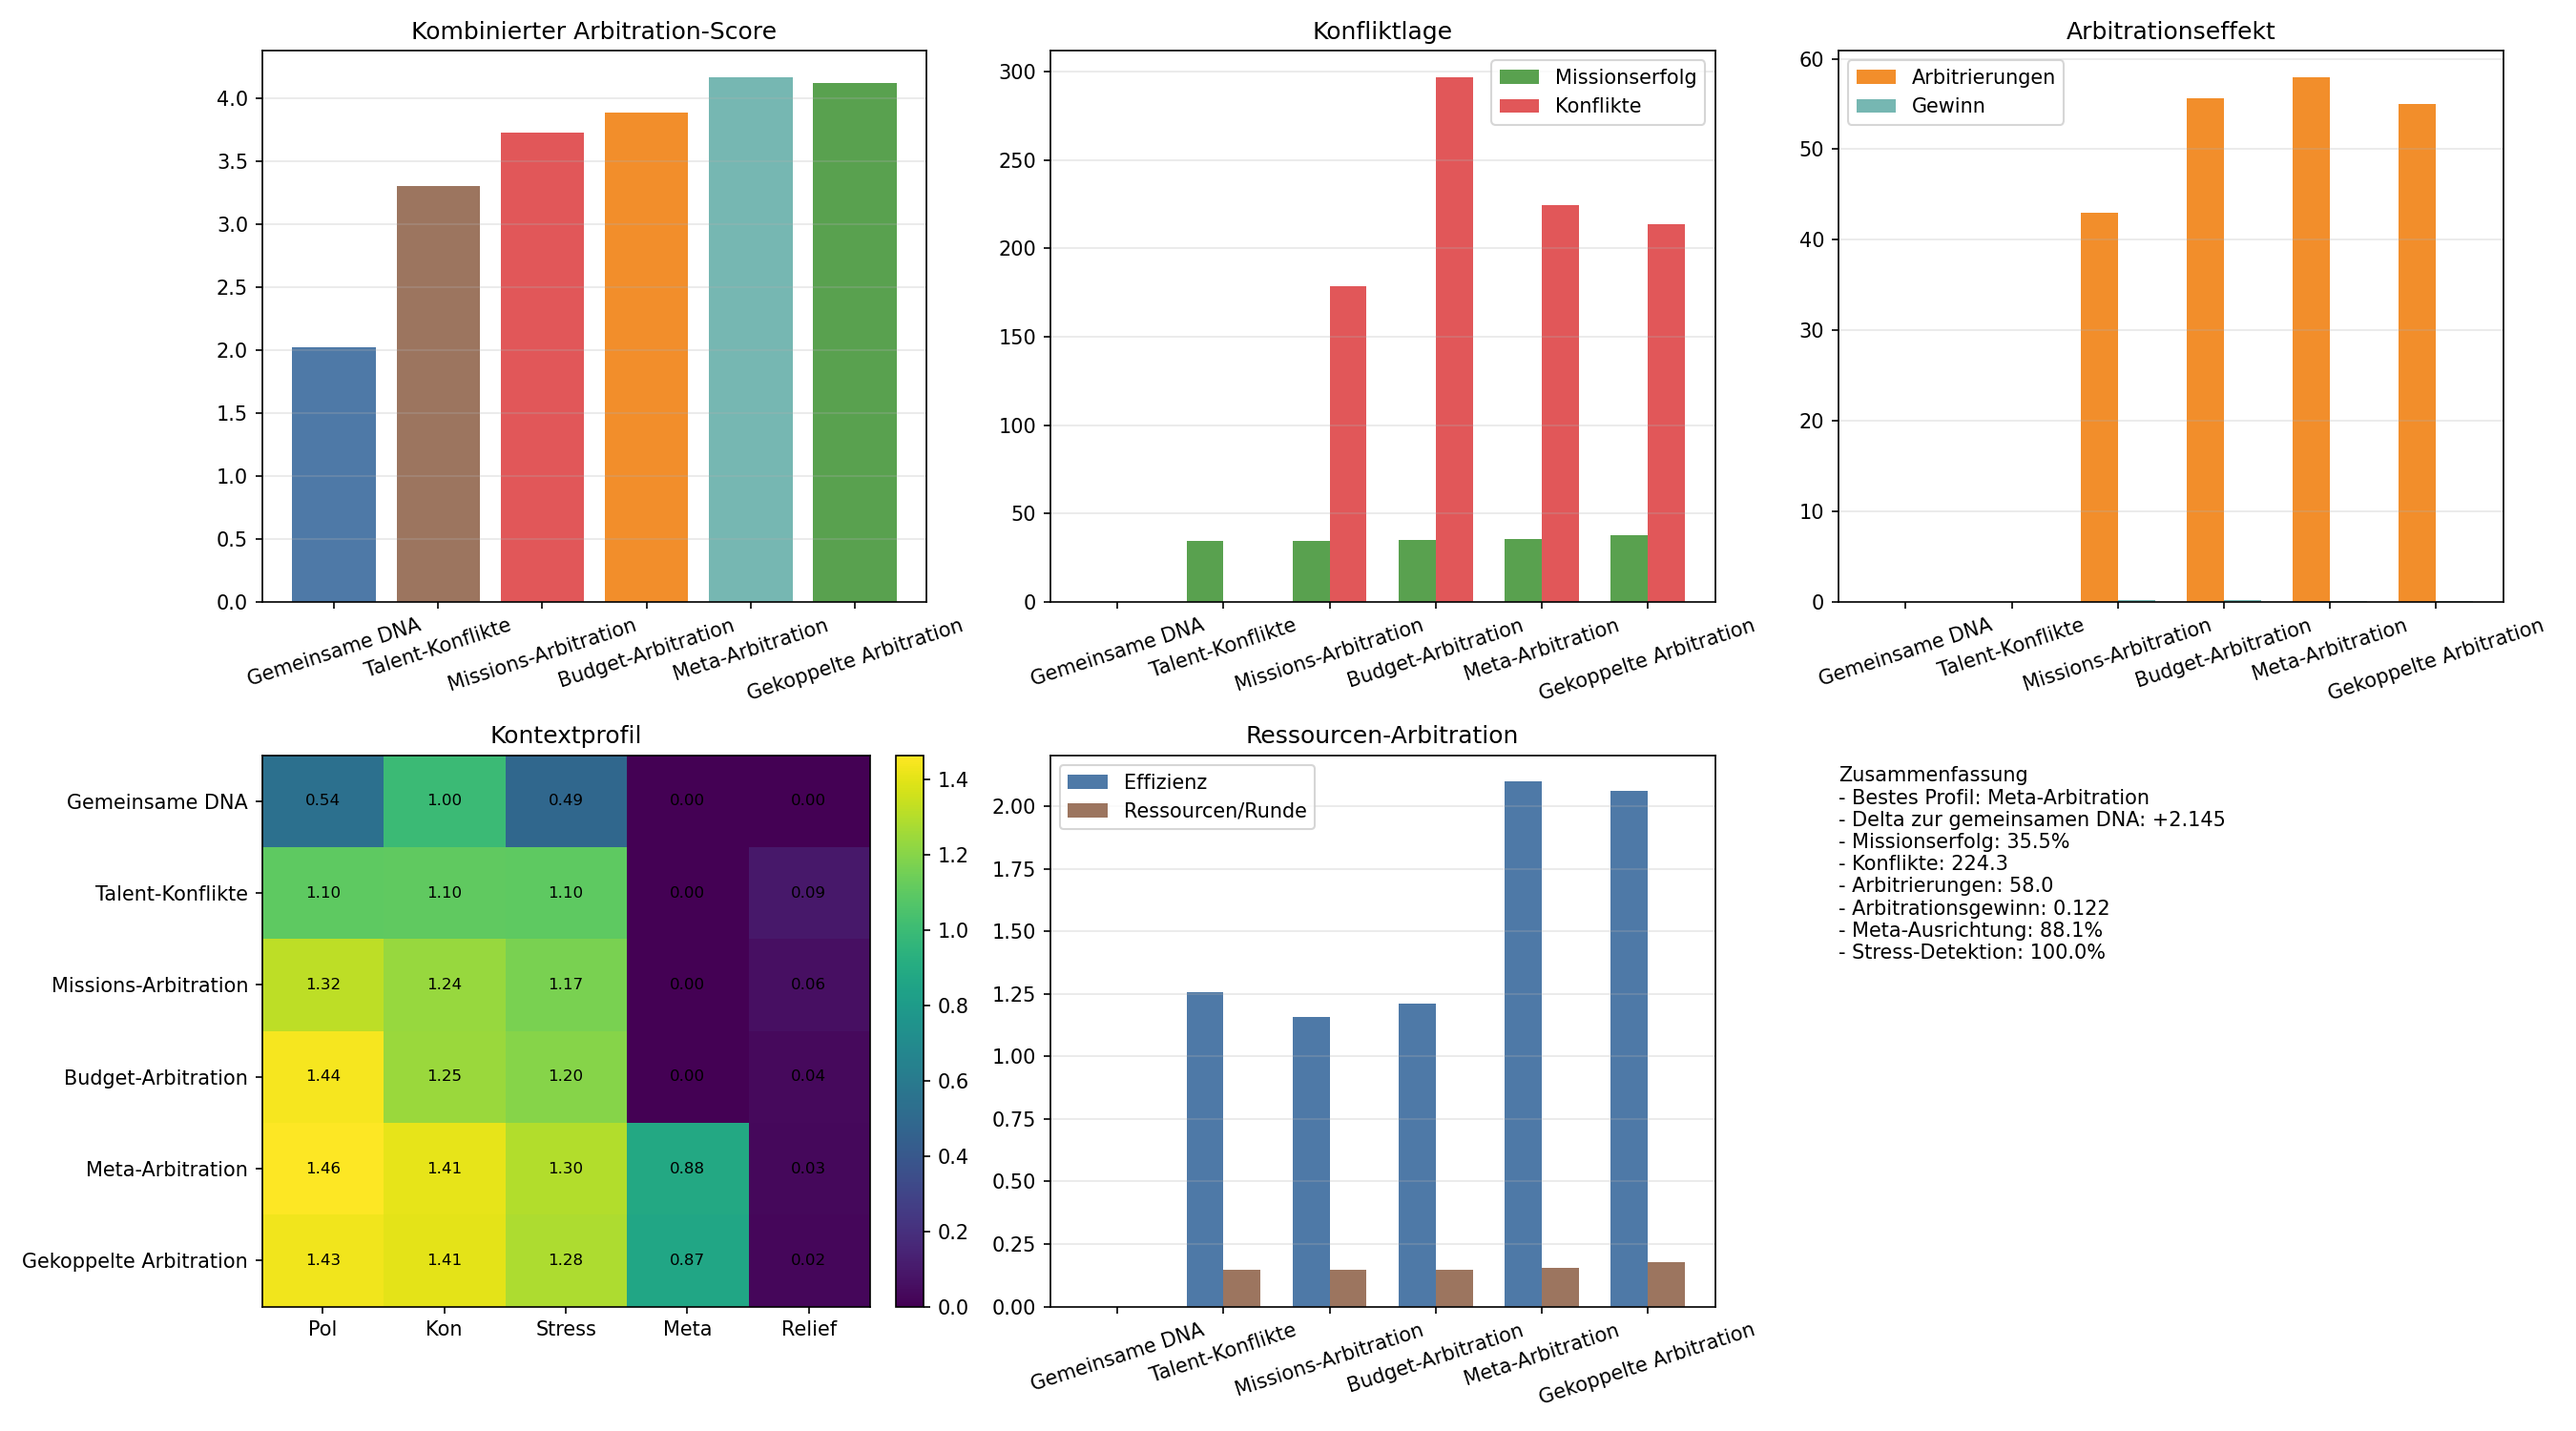
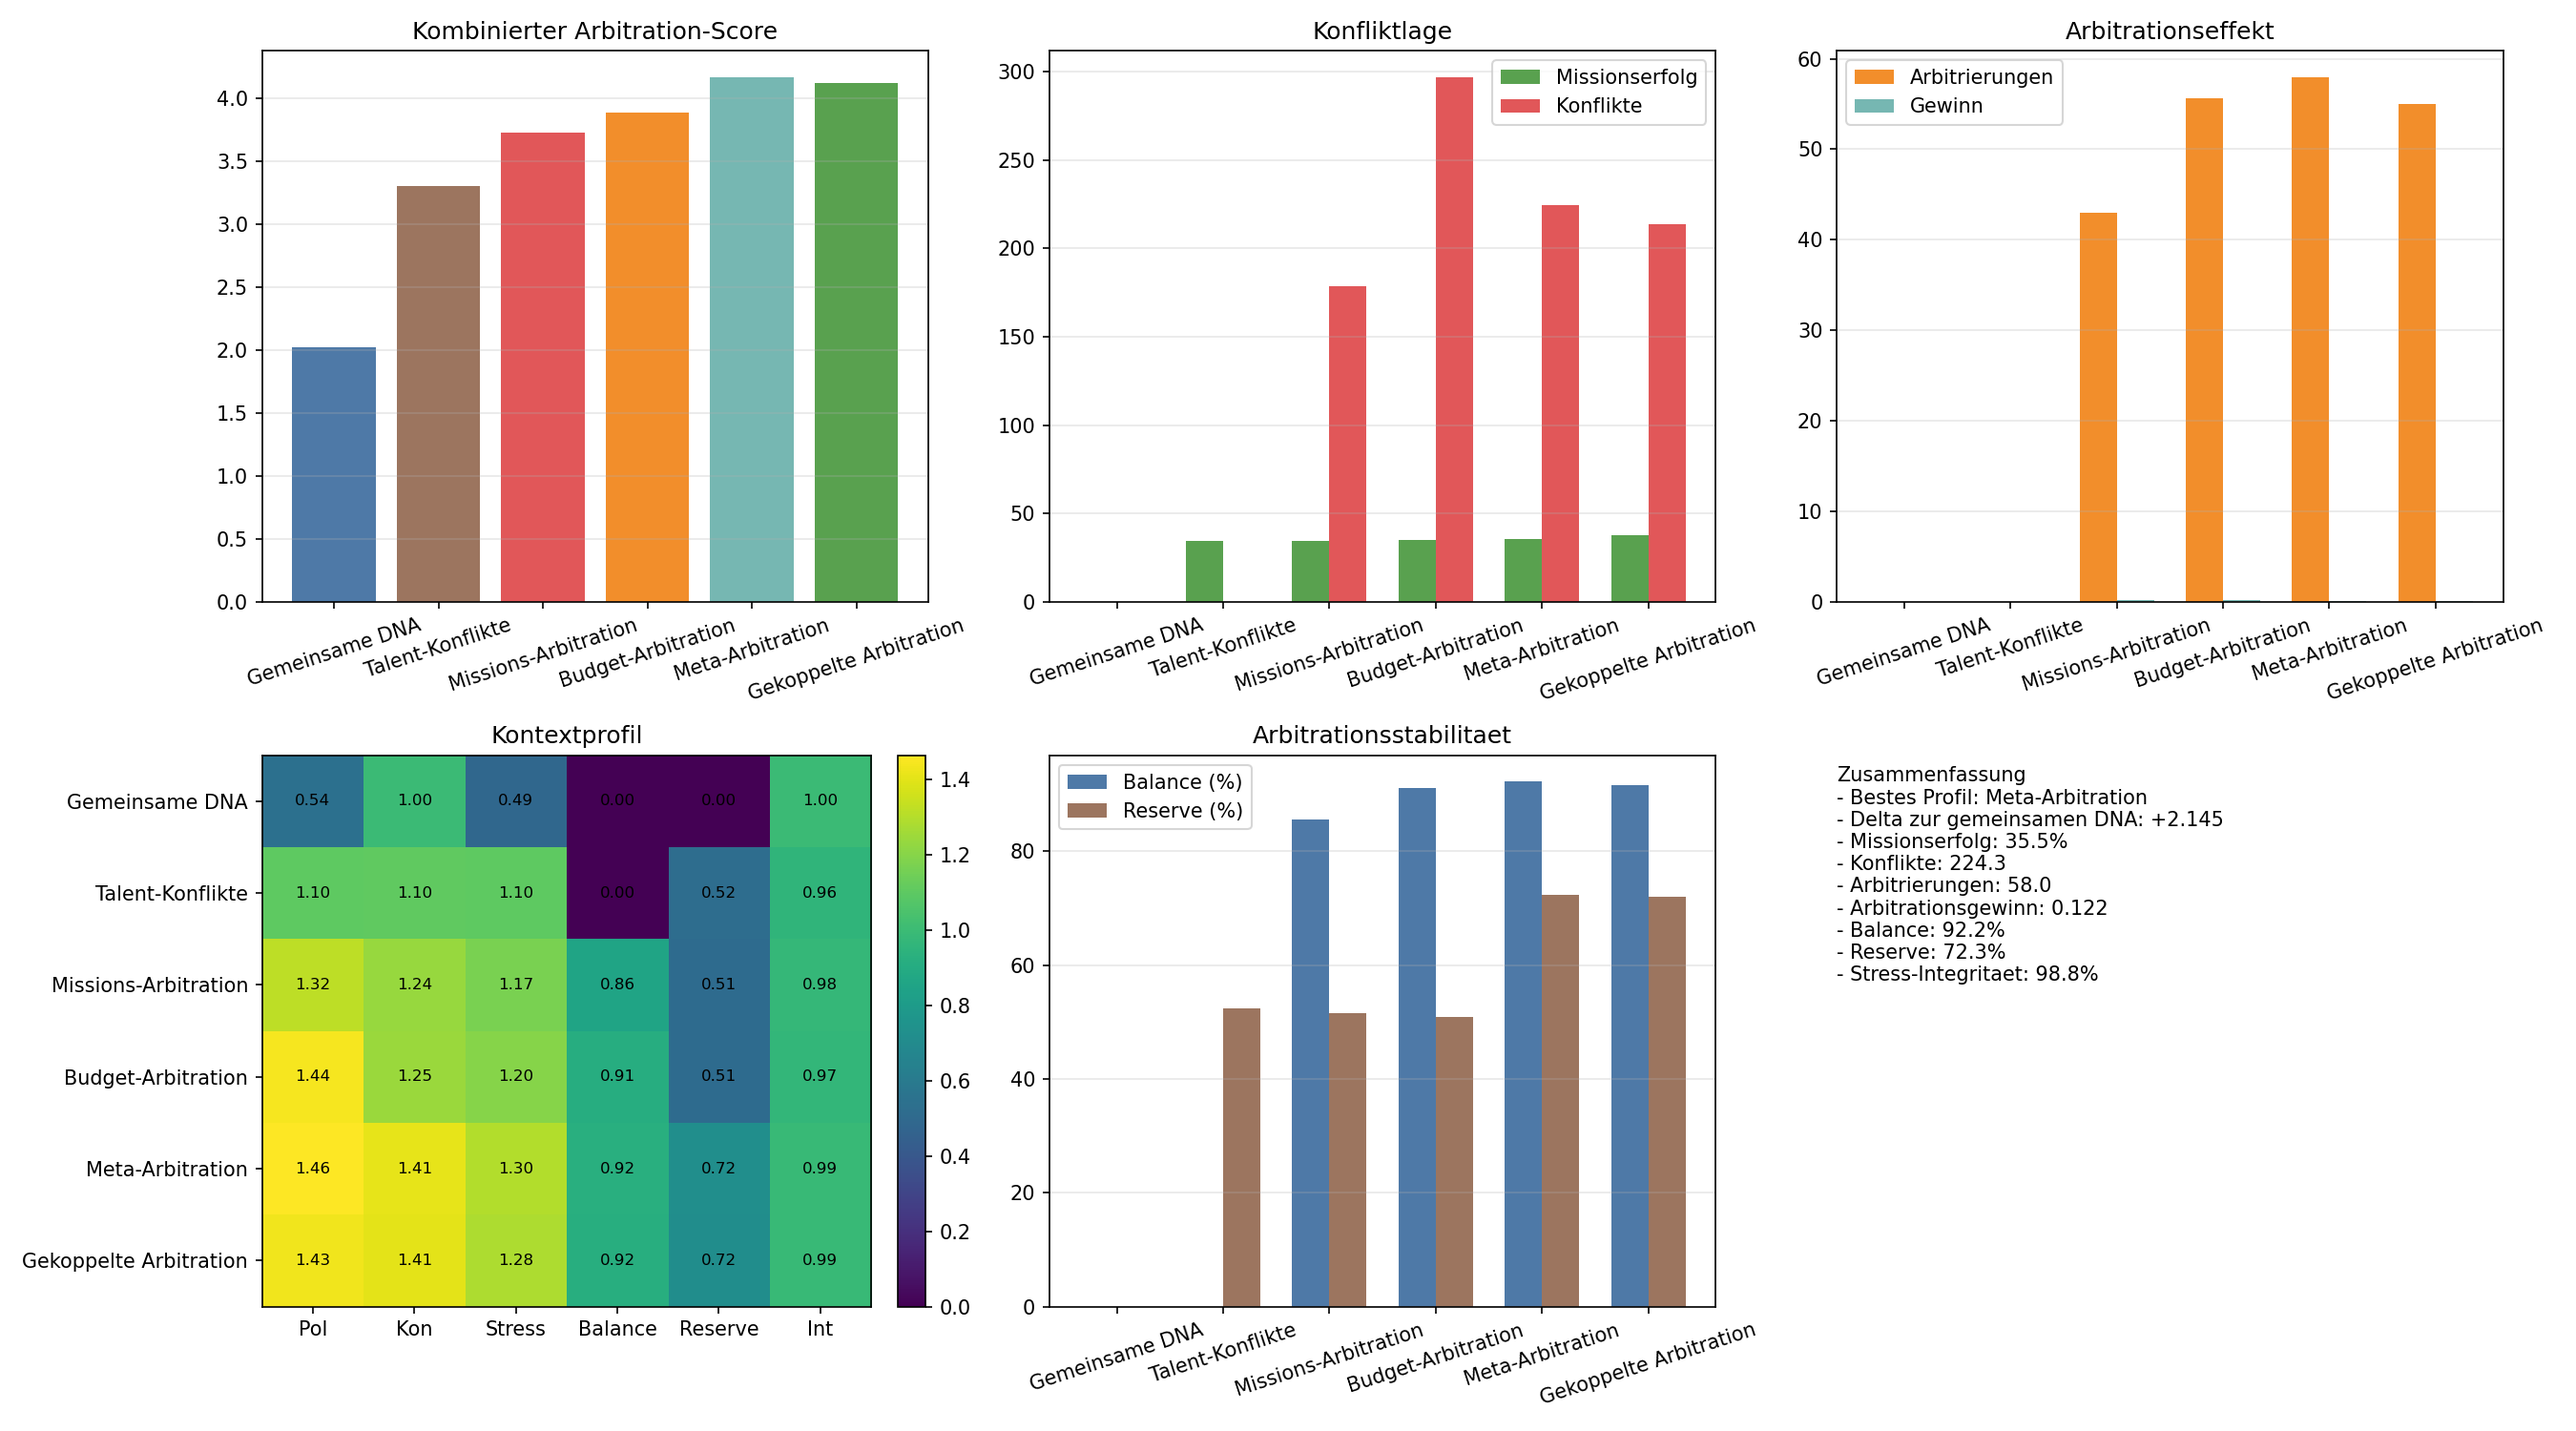
Refine capability arbitration metrics

diff --git a/schwarm_faehigkeitsarbitration.py b/schwarm_faehigkeitsarbitration.py
@@ -185,6 +185,23 @@ def arbitration_profiles(katalog):
 
 def arbitration_metrics(result):
     workflow = result['workflow_metrics']
+    mission_conflicts = float(result.get('mission_conflict_total', 0.0))
+    mission_arbitrations = float(result.get('mission_arbitration_total', 0.0))
+    arbitration_activity = min(1.0, mission_arbitrations / 60.0)
+    conflict_pressure = min(1.0, mission_conflicts / 60.0)
+    resolution_balance = (
+        max(0.0, 1.0 - abs(arbitration_activity - conflict_pressure))
+        if mission_conflicts > 0.0 or mission_arbitrations > 0.0
+        else 0.0
+    )
+    coordination_reserve = mittelwert(
+        [
+            min(1.0, workflow.get('resource_efficiency', 0.0)),
+            min(1.0, workflow.get('bottleneck_relief_rate', 0.0)),
+            min(1.0, workflow.get('meta_alignment_rate', 0.0)),
+            min(1.0, float(result.get('mission_switch_stability', 0.0))),
+        ]
+    )
     return {
         'completion_rate': workflow.get('completion_rate', 0.0),
         'resource_efficiency': workflow.get('resource_efficiency', 0.0),
@@ -195,12 +212,15 @@ def arbitration_metrics(result):
         'skill_alignment_rate': workflow.get('skill_alignment_rate', 0.0),
         'detection_rate': workflow.get('misinformation_detection_rate', 0.0),
         'corruption_mean': workflow.get('misinformation_corruption_mean', 0.0),
+        'stress_integrity': max(0.0, 1.0 - workflow.get('misinformation_corruption_mean', 0.0)),
         'cross_group_cooperation': result['cross_group_cooperation_rate'],
         'mission_success': mittelwert(list(result.get('mission_success_rates', {}).values())),
-        'mission_conflicts': float(result.get('mission_conflict_total', 0.0)),
-        'mission_arbitrations': float(result.get('mission_arbitration_total', 0.0)),
+        'mission_conflicts': mission_conflicts,
+        'mission_arbitrations': mission_arbitrations,
         'arbitration_gain': float(result.get('mission_arbitration_mean_gain', 0.0)),
         'switch_stability': float(result.get('mission_switch_stability', 0.0)),
+        'resolution_balance': resolution_balance,
+        'coordination_reserve': coordination_reserve,
         'consensus': result['final_consensus_score'],
         'polarization': result['final_polarization_index'],
     }
@@ -284,6 +304,9 @@ def summarize_runs(runs, eintrag, context_list):
         'mission_arbitrations': {},
         'arbitration_gain': {},
         'switch_stability': {},
+        'stress_integrity': {},
+        'resolution_balance': {},
+        'coordination_reserve': {},
     }
 
     for kontext in context_list:
@@ -338,7 +361,8 @@ def main():
             f"{summary['label']:<26} Score={summary['combined_score']:+.3f} | "
             f"Mission={summary['mission_success']['polarization']:.1%} | "
             f"Arb={summary['mission_arbitrations']['consensus']:.1f} | "
-            f"Meta={summary['meta_alignment_rate']['consensus']:.1%}"
+            f"Balance={summary['resolution_balance']['consensus']:.1%} | "
+            f"Reserve={summary['coordination_reserve']['stress']:.1%}"
         )
 
     best = max(summaries, key=lambda item: item['combined_score'])
@@ -350,7 +374,8 @@ def main():
     )
     print(
         f"Missionserfolg {best['mission_success']['polarization']:.1%}, "
-        f"Meta-Ausrichtung {best['meta_alignment_rate']['consensus']:.1%}, "
+        f"Balance {best['resolution_balance']['consensus']:.1%}, "
+        f"Reserve {best['coordination_reserve']['stress']:.1%}, "
         f"Arbitrationsgewinn {best['arbitration_gain']['consensus']:.3f}"
     )
 
@@ -413,8 +438,9 @@ def main():
                 item['context_scores']['polarization'],
                 item['context_scores']['consensus'],
                 item['context_scores']['stress'],
-                item['meta_alignment_rate']['consensus'],
-                item['bottleneck_relief_rate']['stress'],
+                item['resolution_balance']['consensus'],
+                item['coordination_reserve']['stress'],
+                item['stress_integrity']['stress'],
             ]
             for item in summaries
         ],
@@ -422,8 +448,8 @@ def main():
     )
     heatmap = axes[1, 0].imshow(heatmap_data, cmap='viridis', aspect='auto')
     axes[1, 0].set_title('Kontextprofil')
-    axes[1, 0].set_xticks([0, 1, 2, 3, 4])
-    axes[1, 0].set_xticklabels(['Pol', 'Kon', 'Stress', 'Meta', 'Relief'])
+    axes[1, 0].set_xticks([0, 1, 2, 3, 4, 5])
+    axes[1, 0].set_xticklabels(['Pol', 'Kon', 'Stress', 'Balance', 'Reserve', 'Int'])
     axes[1, 0].set_yticks(range(len(labels)))
     axes[1, 0].set_yticklabels(labels)
     for row in range(heatmap_data.shape[0]):
@@ -433,19 +459,19 @@ def main():
 
     axes[1, 1].bar(
         x - width / 2,
-        [item['resource_efficiency']['stress'] for item in summaries],
+        [item['resolution_balance']['consensus'] * 100.0 for item in summaries],
         width,
-        label='Effizienz',
+        label='Balance (%)',
         color='#4e79a7',
     )
     axes[1, 1].bar(
         x + width / 2,
-        [item['resource_share_rate']['stress'] for item in summaries],
+        [item['coordination_reserve']['stress'] * 100.0 for item in summaries],
         width,
-        label='Ressourcen/Runde',
+        label='Reserve (%)',
         color='#9c755f',
     )
-    axes[1, 1].set_title('Ressourcen-Arbitration')
+    axes[1, 1].set_title('Arbitrationsstabilitaet')
     axes[1, 1].set_xticks(x)
     axes[1, 1].set_xticklabels(labels, rotation=18)
     axes[1, 1].legend()
@@ -463,8 +489,9 @@ def main():
             f"- Konflikte: {best['mission_conflicts']['polarization']:.1f}\n"
             f"- Arbitrierungen: {best['mission_arbitrations']['consensus']:.1f}\n"
             f"- Arbitrationsgewinn: {best['arbitration_gain']['consensus']:.3f}\n"
-            f"- Meta-Ausrichtung: {best['meta_alignment_rate']['consensus']:.1%}\n"
-            f"- Stress-Detektion: {best['detection_rate']['stress']:.1%}"
+            f"- Balance: {best['resolution_balance']['consensus']:.1%}\n"
+            f"- Reserve: {best['coordination_reserve']['stress']:.1%}\n"
+            f"- Stress-Integritaet: {best['stress_integrity']['stress']:.1%}"
         ),
         va='top',
         fontsize=10,
